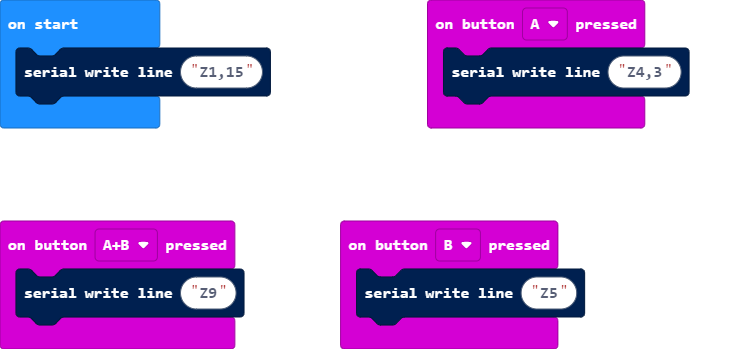
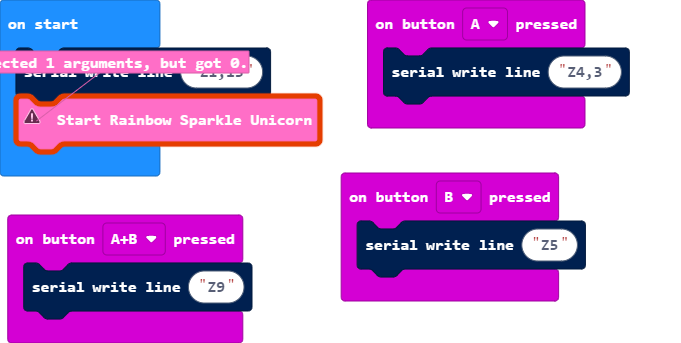
Update main.blocks, main.ts, custom.ts

diff --git a/custom.ts b/custom.ts
@@ -61,11 +61,10 @@ namespace RainbowSparkleUnicorn {
             SerialPin.P2,
             BaudRate.BaudRate115200
         )
-        serialNumber = SN
+
+        serialNumber = SN        
         initialized = true
     }
-
-
 
     /**
      * TODO: describe your function here

diff --git a/main.ts b/main.ts
@@ -8,3 +8,4 @@ input.onButtonPressed(Button.B, function () {
     serial.writeLine("Z5")
 })
 serial.writeLine("Z1,15")
+RainbowSparkleUnicorn.start("SN4")
